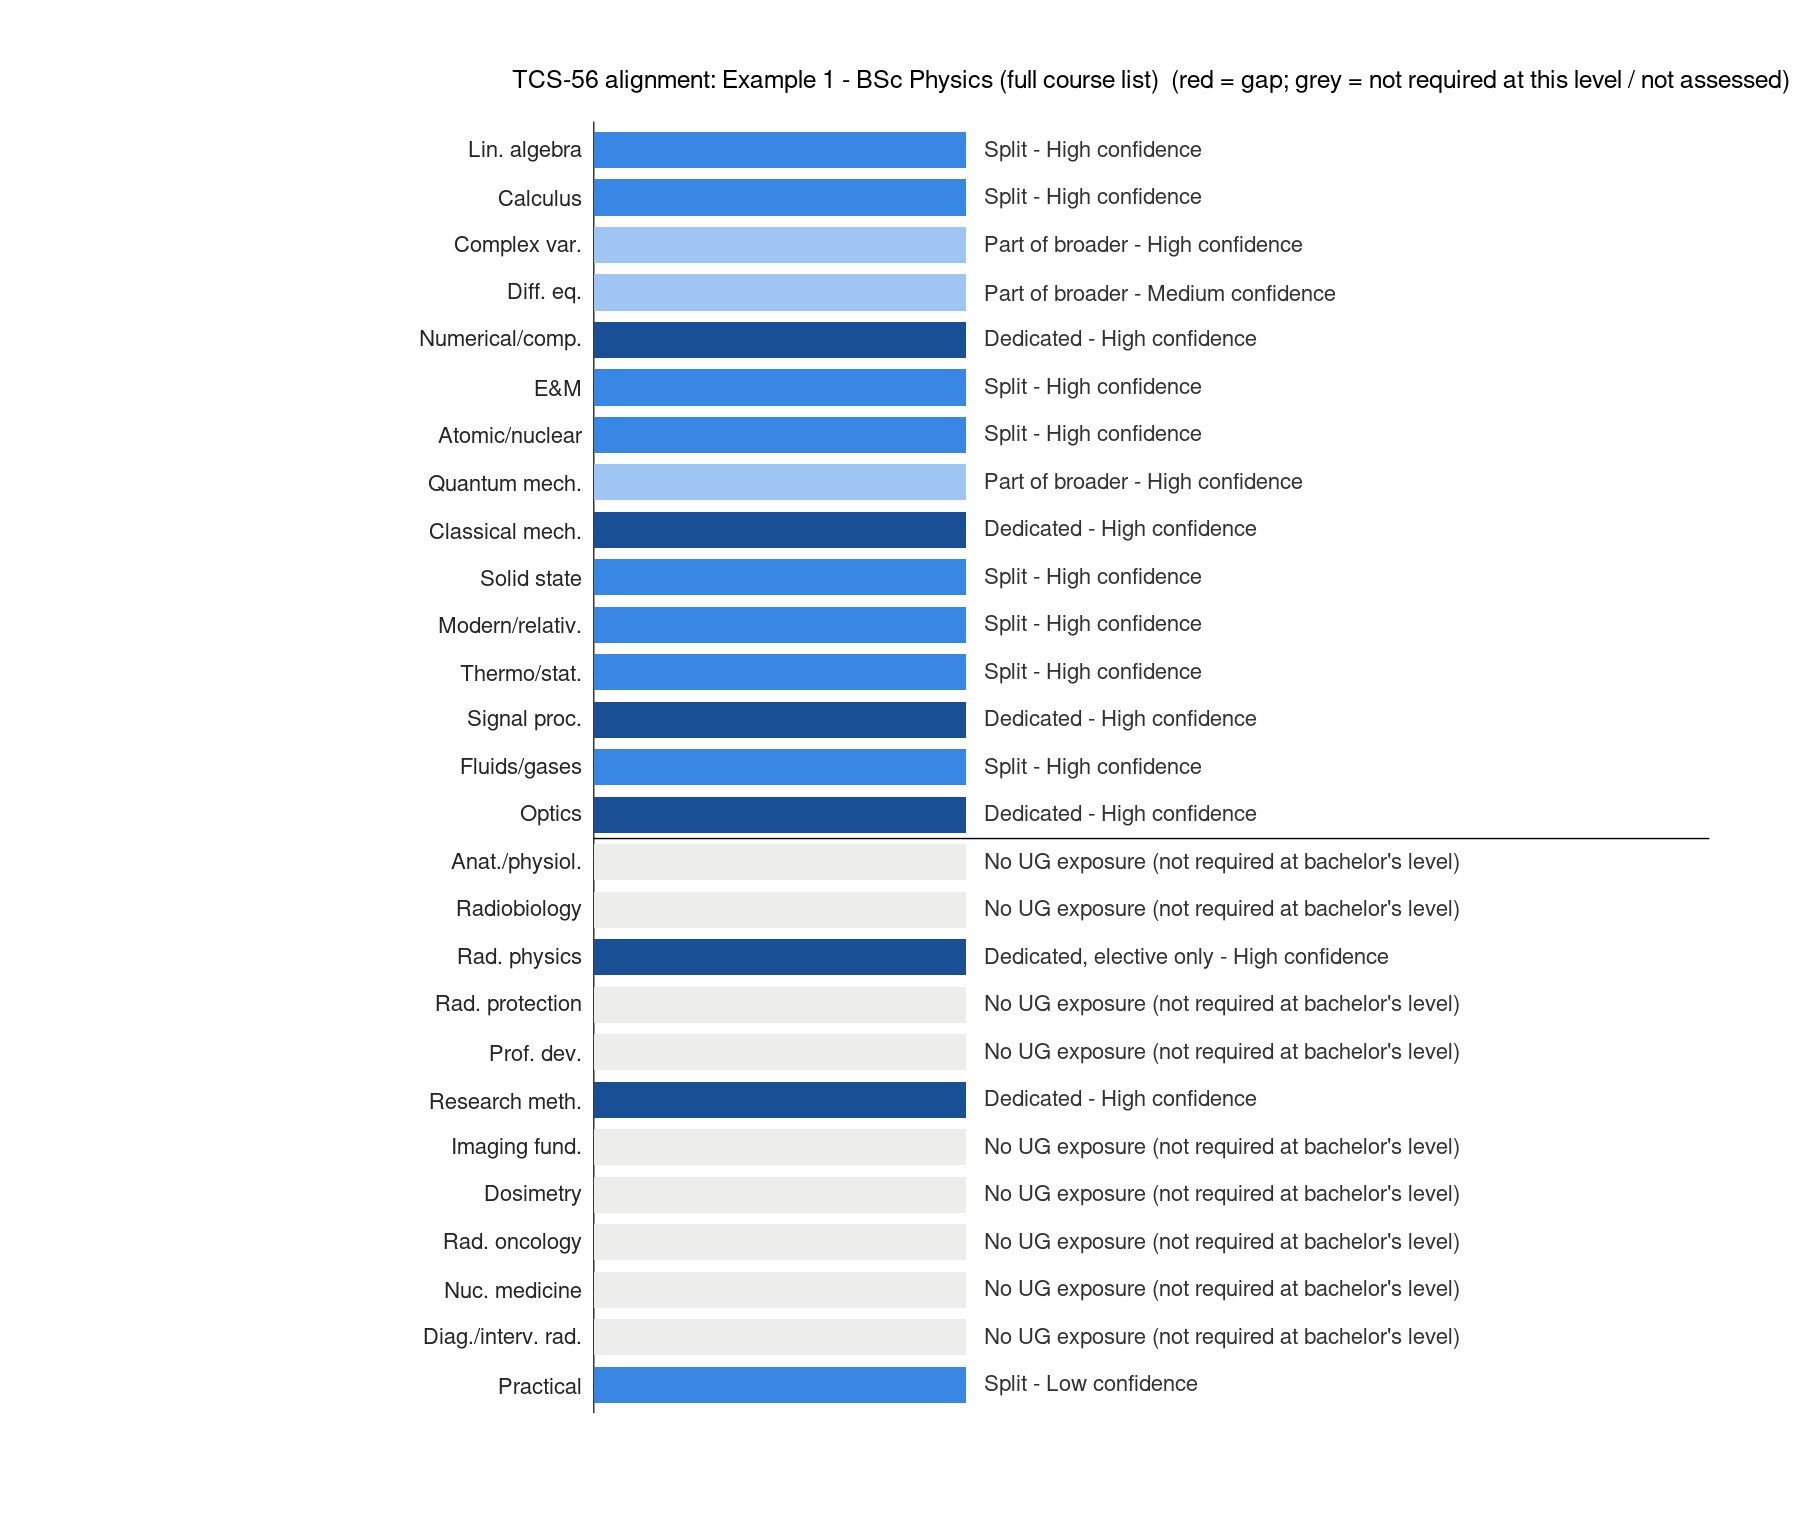
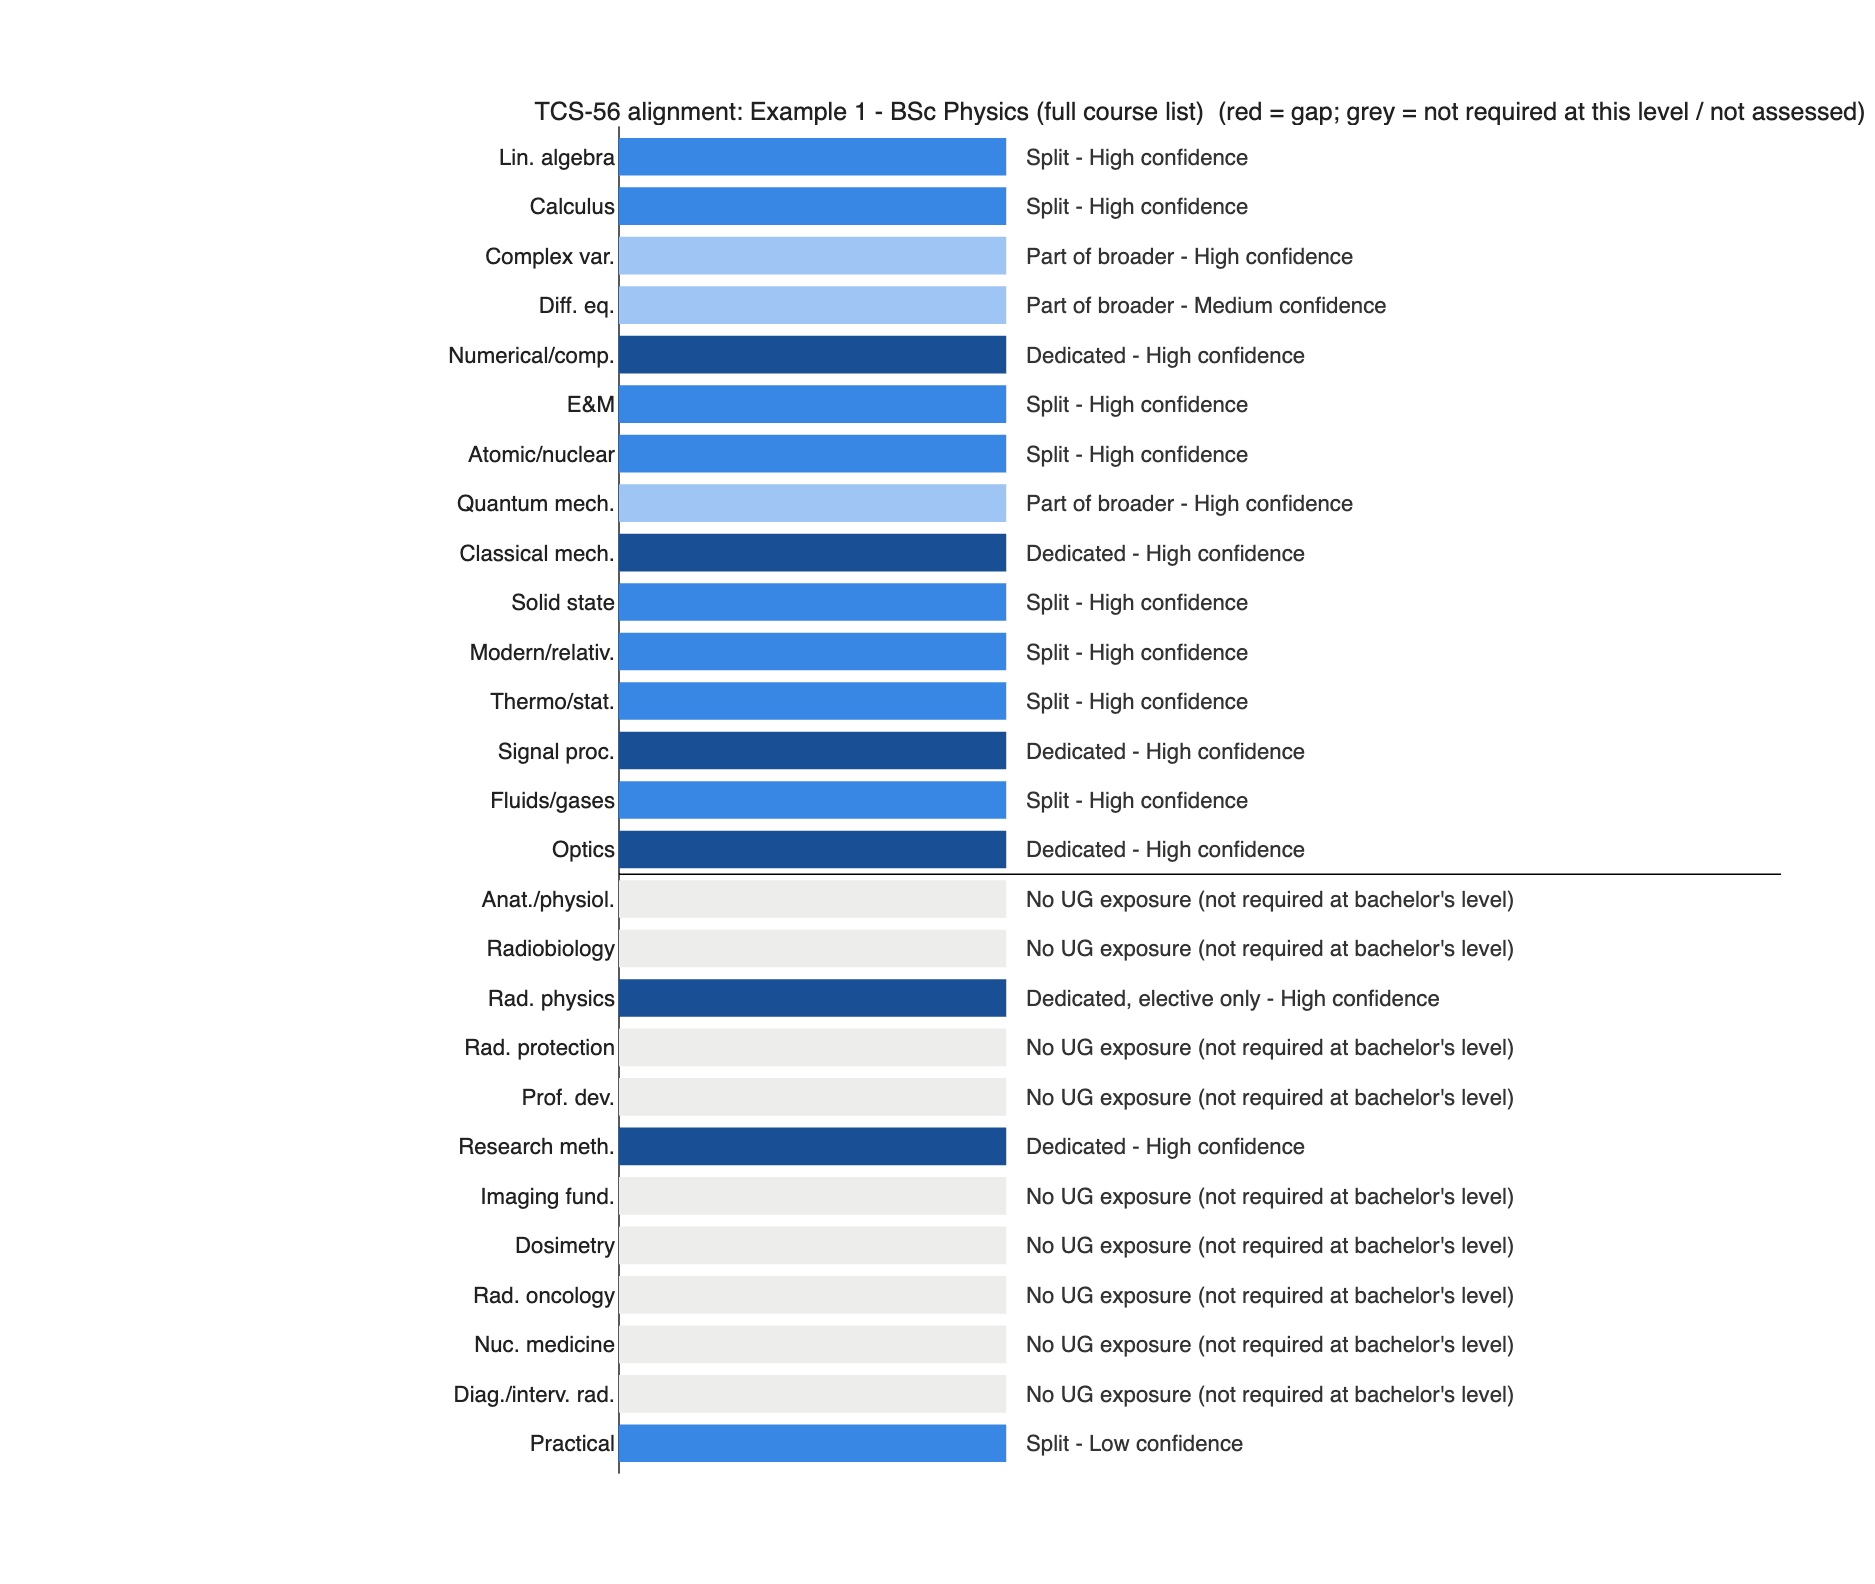
Example 1 outputs regenerated in MATLAB with the TCS-56 (Rev. 1) item names

Changed region(s): [[0.2179, 0.0309, 0.9961, 0.9282]]

diff --git a/examples/output/ex1/assessment_report.md b/examples/output/ex1/assessment_report.md
@@ -1,6 +1,6 @@
 # TCS-56 alignment: Example 1 - BSc Physics (full course list)
 
-Level: Bachelor. Input: University (course list). Generated 2026-11-16.
+Level: Bachelor. Input: University (course list). Generated 2026-11-20.
 
 ## Summary
 
